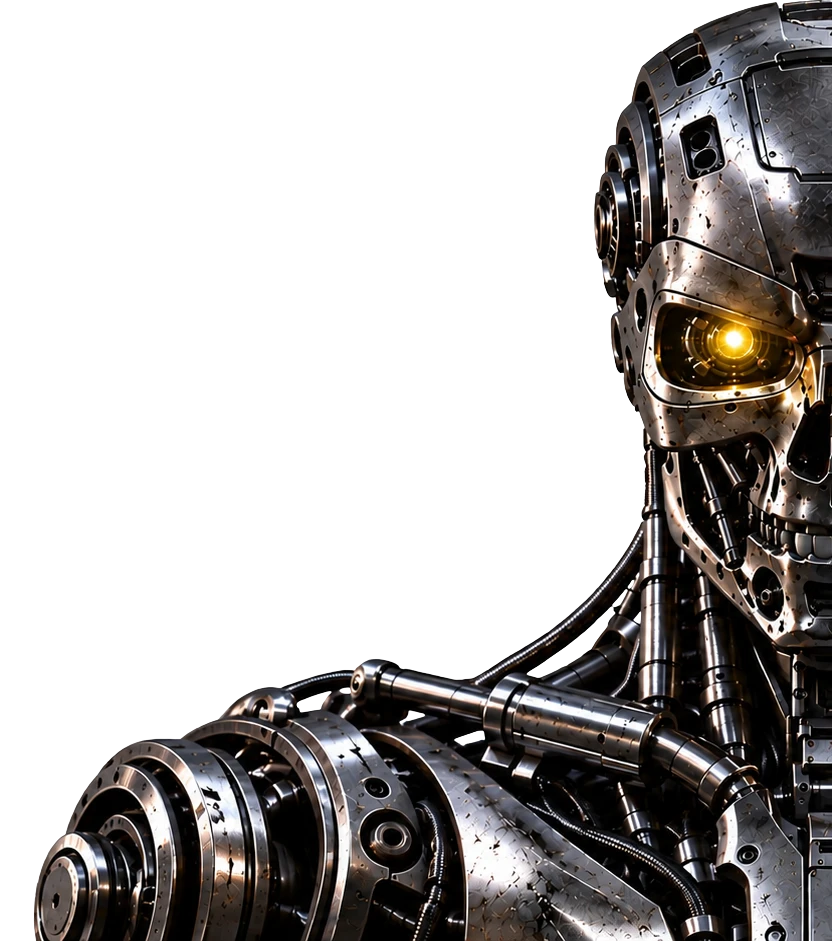
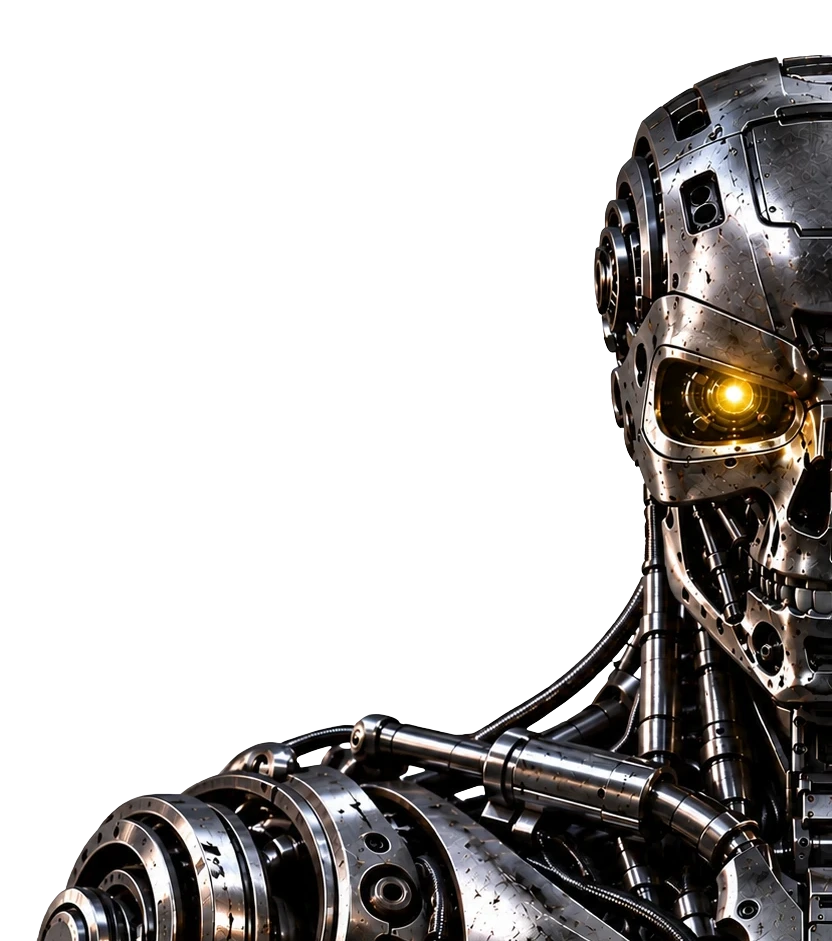
BUILD / PROJECTS: robot half and Ridwan half meet at the seam
face-build is shifted down 55px so the eye lines match; both halves share one height
and take their widths from their own images.

Claude-Session: https://claude.ai/code/session_01PyiLFW4naYo6a6FgVStKGY

diff --git a/CLAUDE.md b/CLAUDE.md
@@ -27,6 +27,7 @@ npm run capture      # screenshot client sites into src/assets/shots (needs thei
 - `src/data/site.ts`: name, email, socials, profile facts, stats. Add socials there and the menu and footer pick them up.
 - `src/assets/shots/<slug>-{desktop,mobile}.webp`: written by `scripts/capture.mjs`. A card without a shot shows a styled placeholder.
 - `src/assets/portrait/portrait.*` (About section) and `src/assets/portrait/face.*` (split BUILD/PROJECTS section): drop the photo in and it replaces the placeholder.
+- `src/assets/portrait/face-build.*` and `face-projects.*`: transparent half-busts (robot left, Ridwan right) that meet at the BUILD/PROJECTS seam. When both exist they take over from `face.*`; they share one height, so keep the eye lines level in the source files.
 - `src/assets/portrait/feature.*` (16:9, ~2560×1440) and optional `feature-mobile.*` (9:16): the full-screen photo band after BUILD/PROJECTS, which slides up over that section.
 - `public/assets/nexbot.splinecode`: the robot scene. The preloader downloads it once and hands the viewer a blob URL.
 
